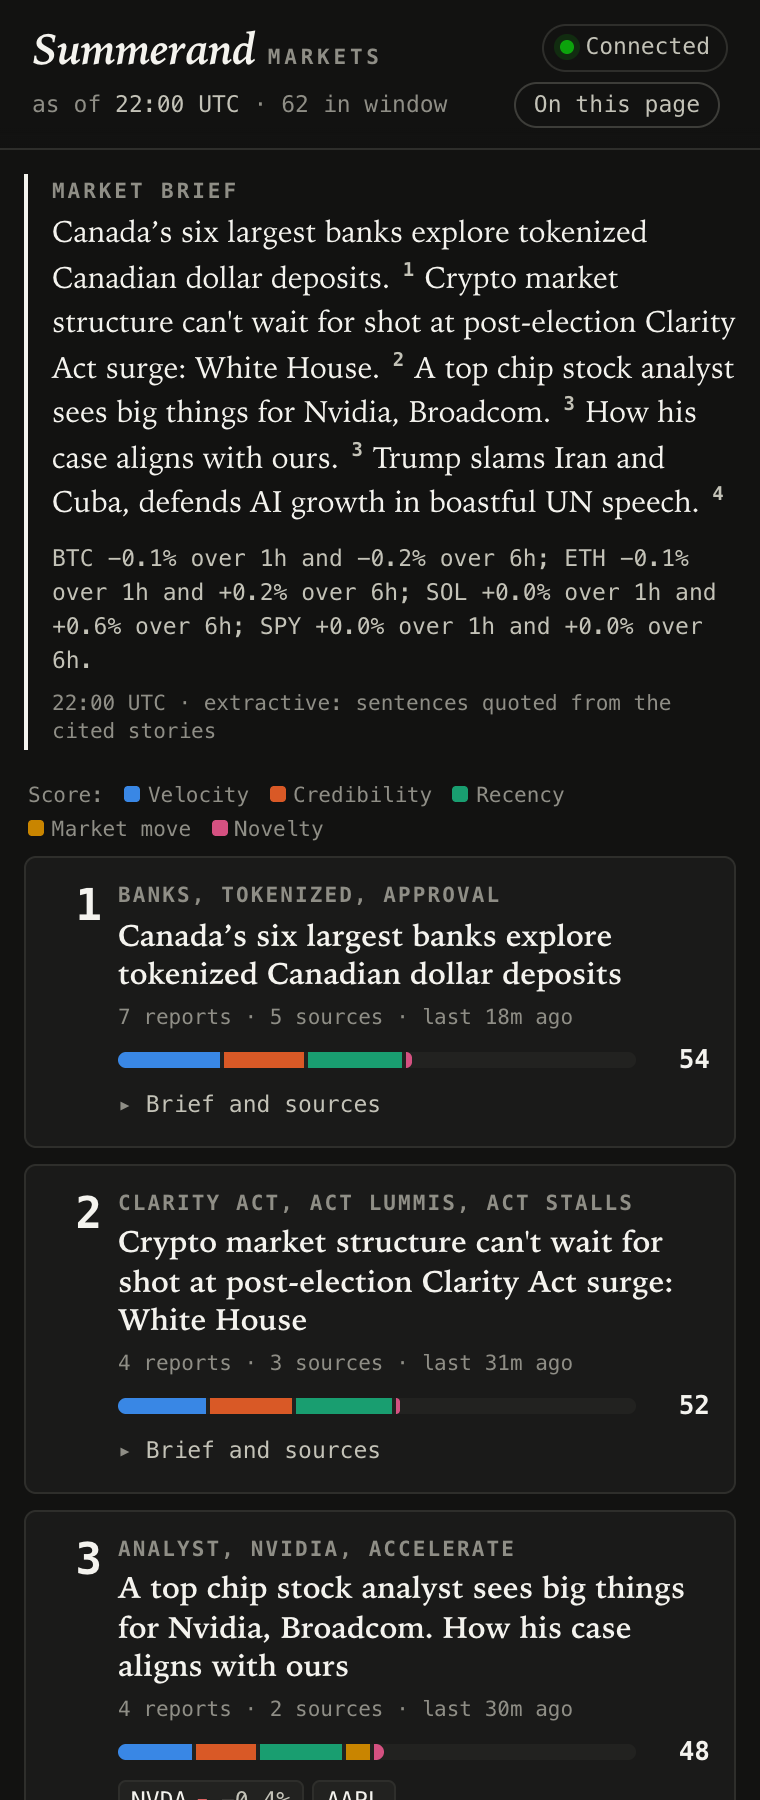
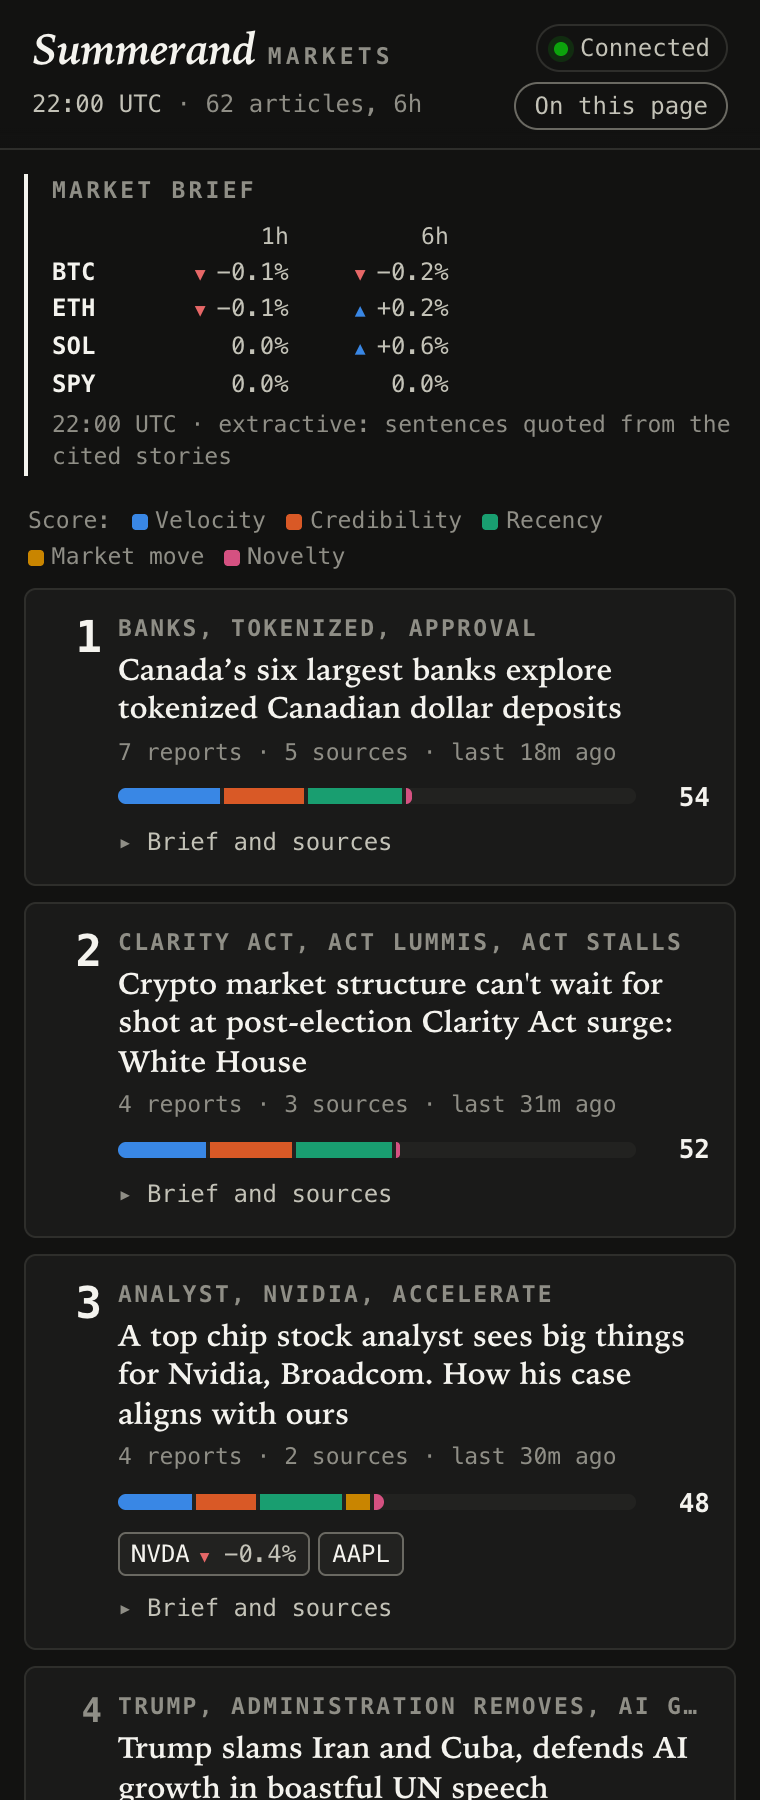
retake panel screenshots at 22:00 UTC; caption matches what the panel shows

diff --git a/README.md b/README.md
@@ -10,9 +10,10 @@ feeds and market data, with the limits described below.
 
 <img src="docs/sidepanel.png" width="380" alt="Side panel showing the market brief and ranked story cards with score bars">
 
-_Selected fixture moment (2026-08-28 22:00 UTC) in the Chrome side panel. The market brief
-extracts sentences from several unrelated top stories. Clusters are illustrative; some sources
-still cross topics within a cluster._
+_The side panel at a replayed fixture moment (2026-08-28 22:00 UTC). The market brief shows only
+price moves here, because every headline it would quote is already a card below. Clusters are
+illustrative, and some still mix topics. Clusters that take in most of the window from many
+outlets are shown as "broad, mixed coverage" instead of as one story._
 
 ## Run the recorded demo
 
